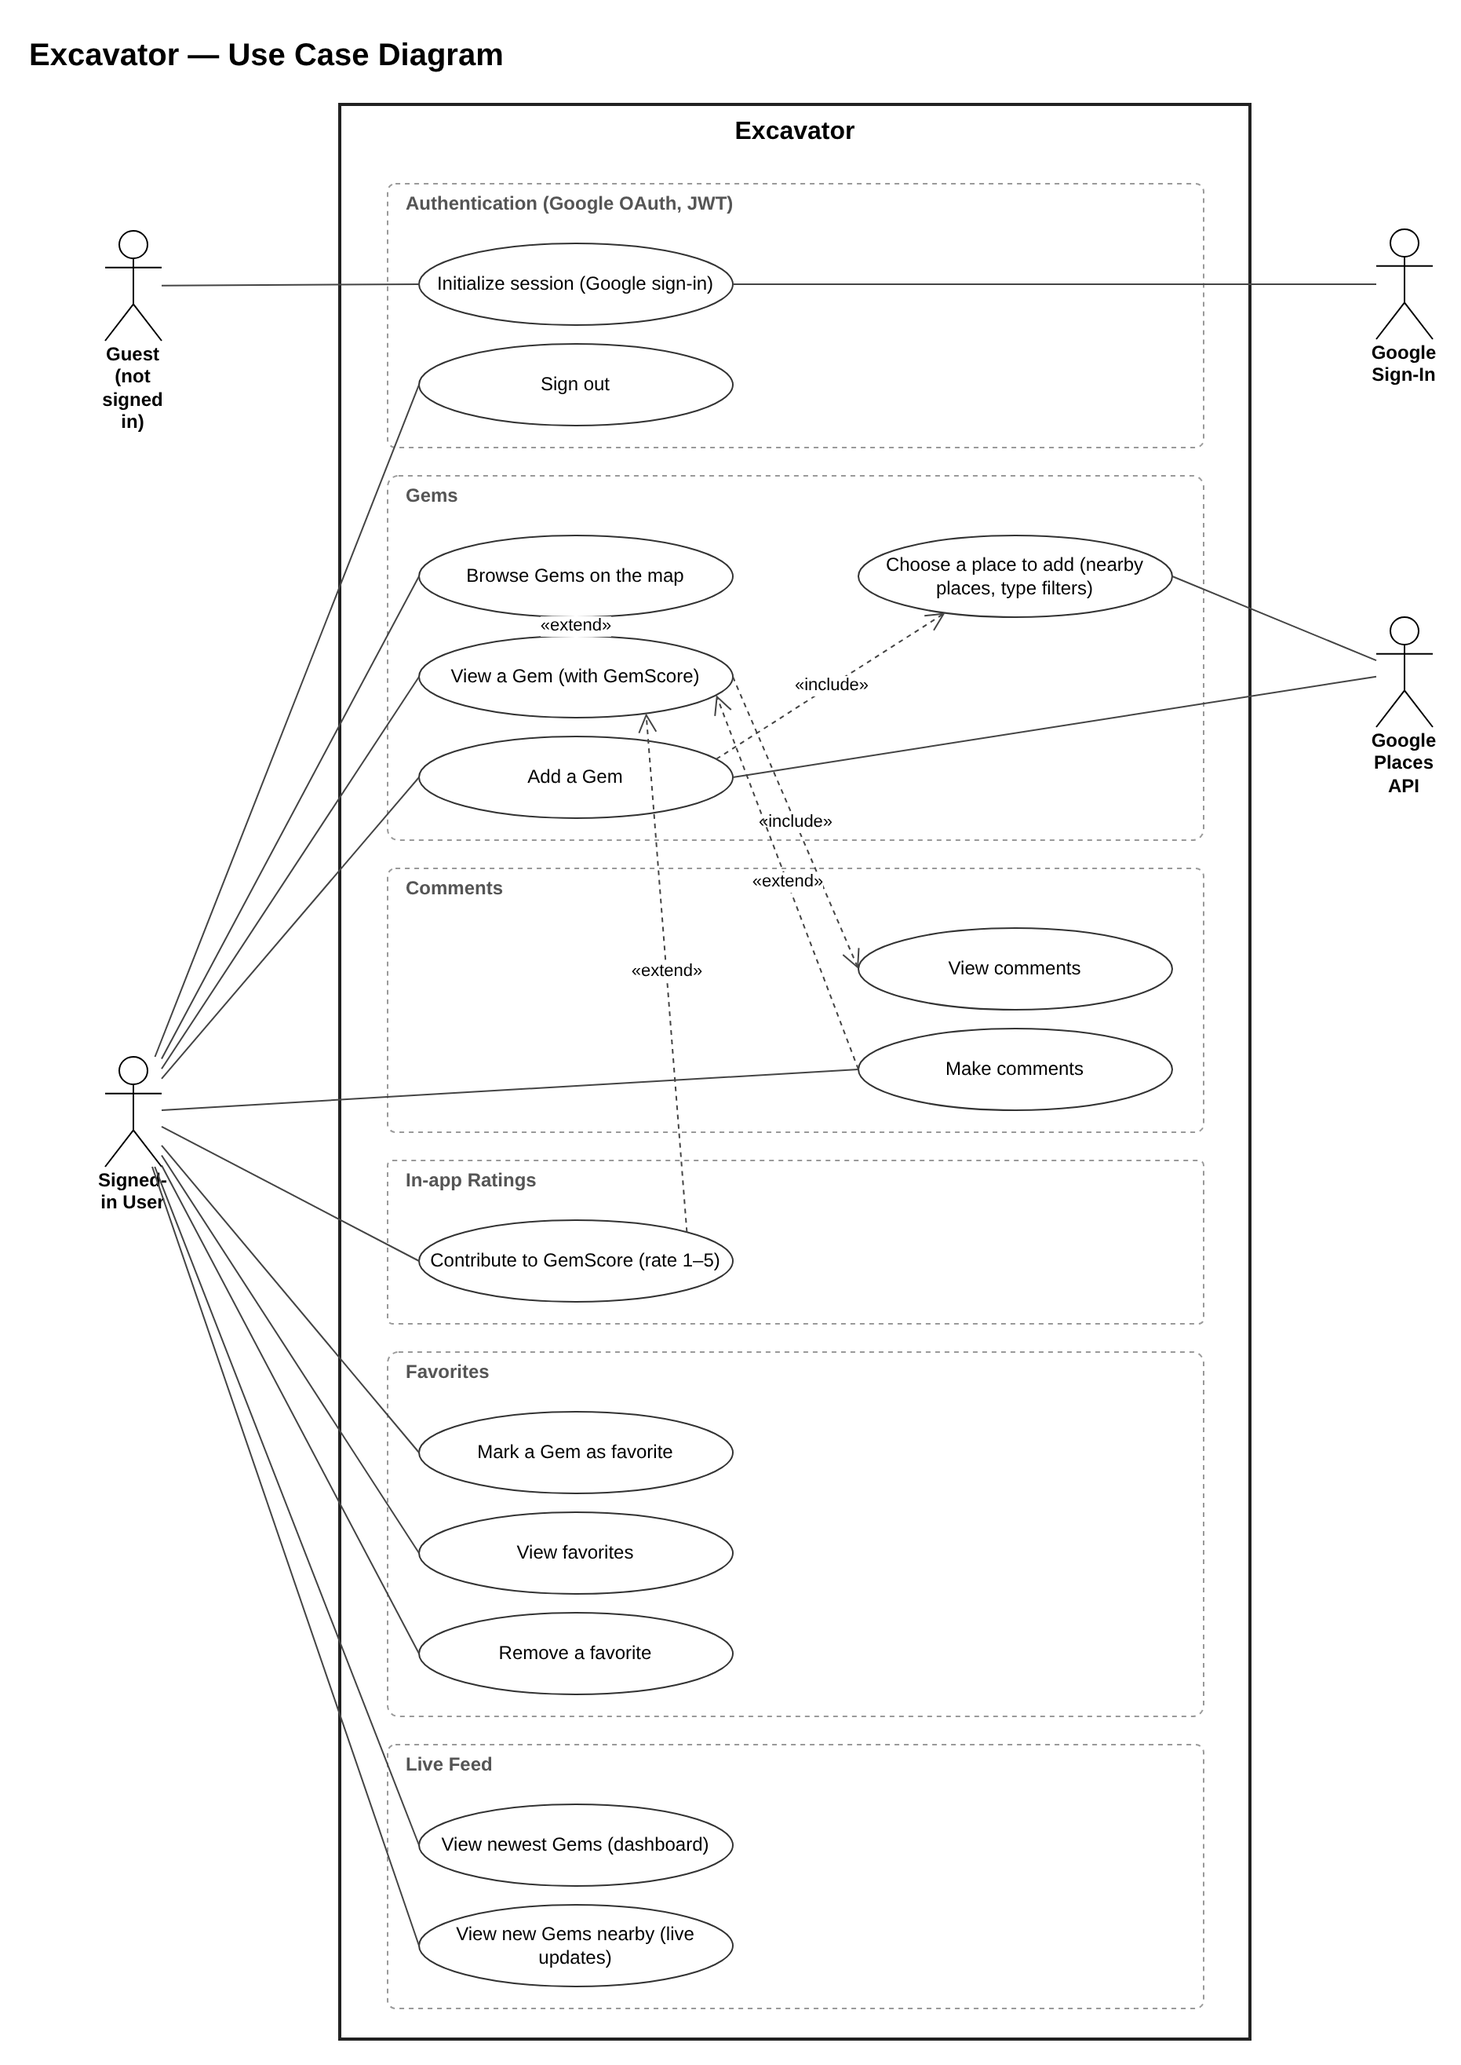
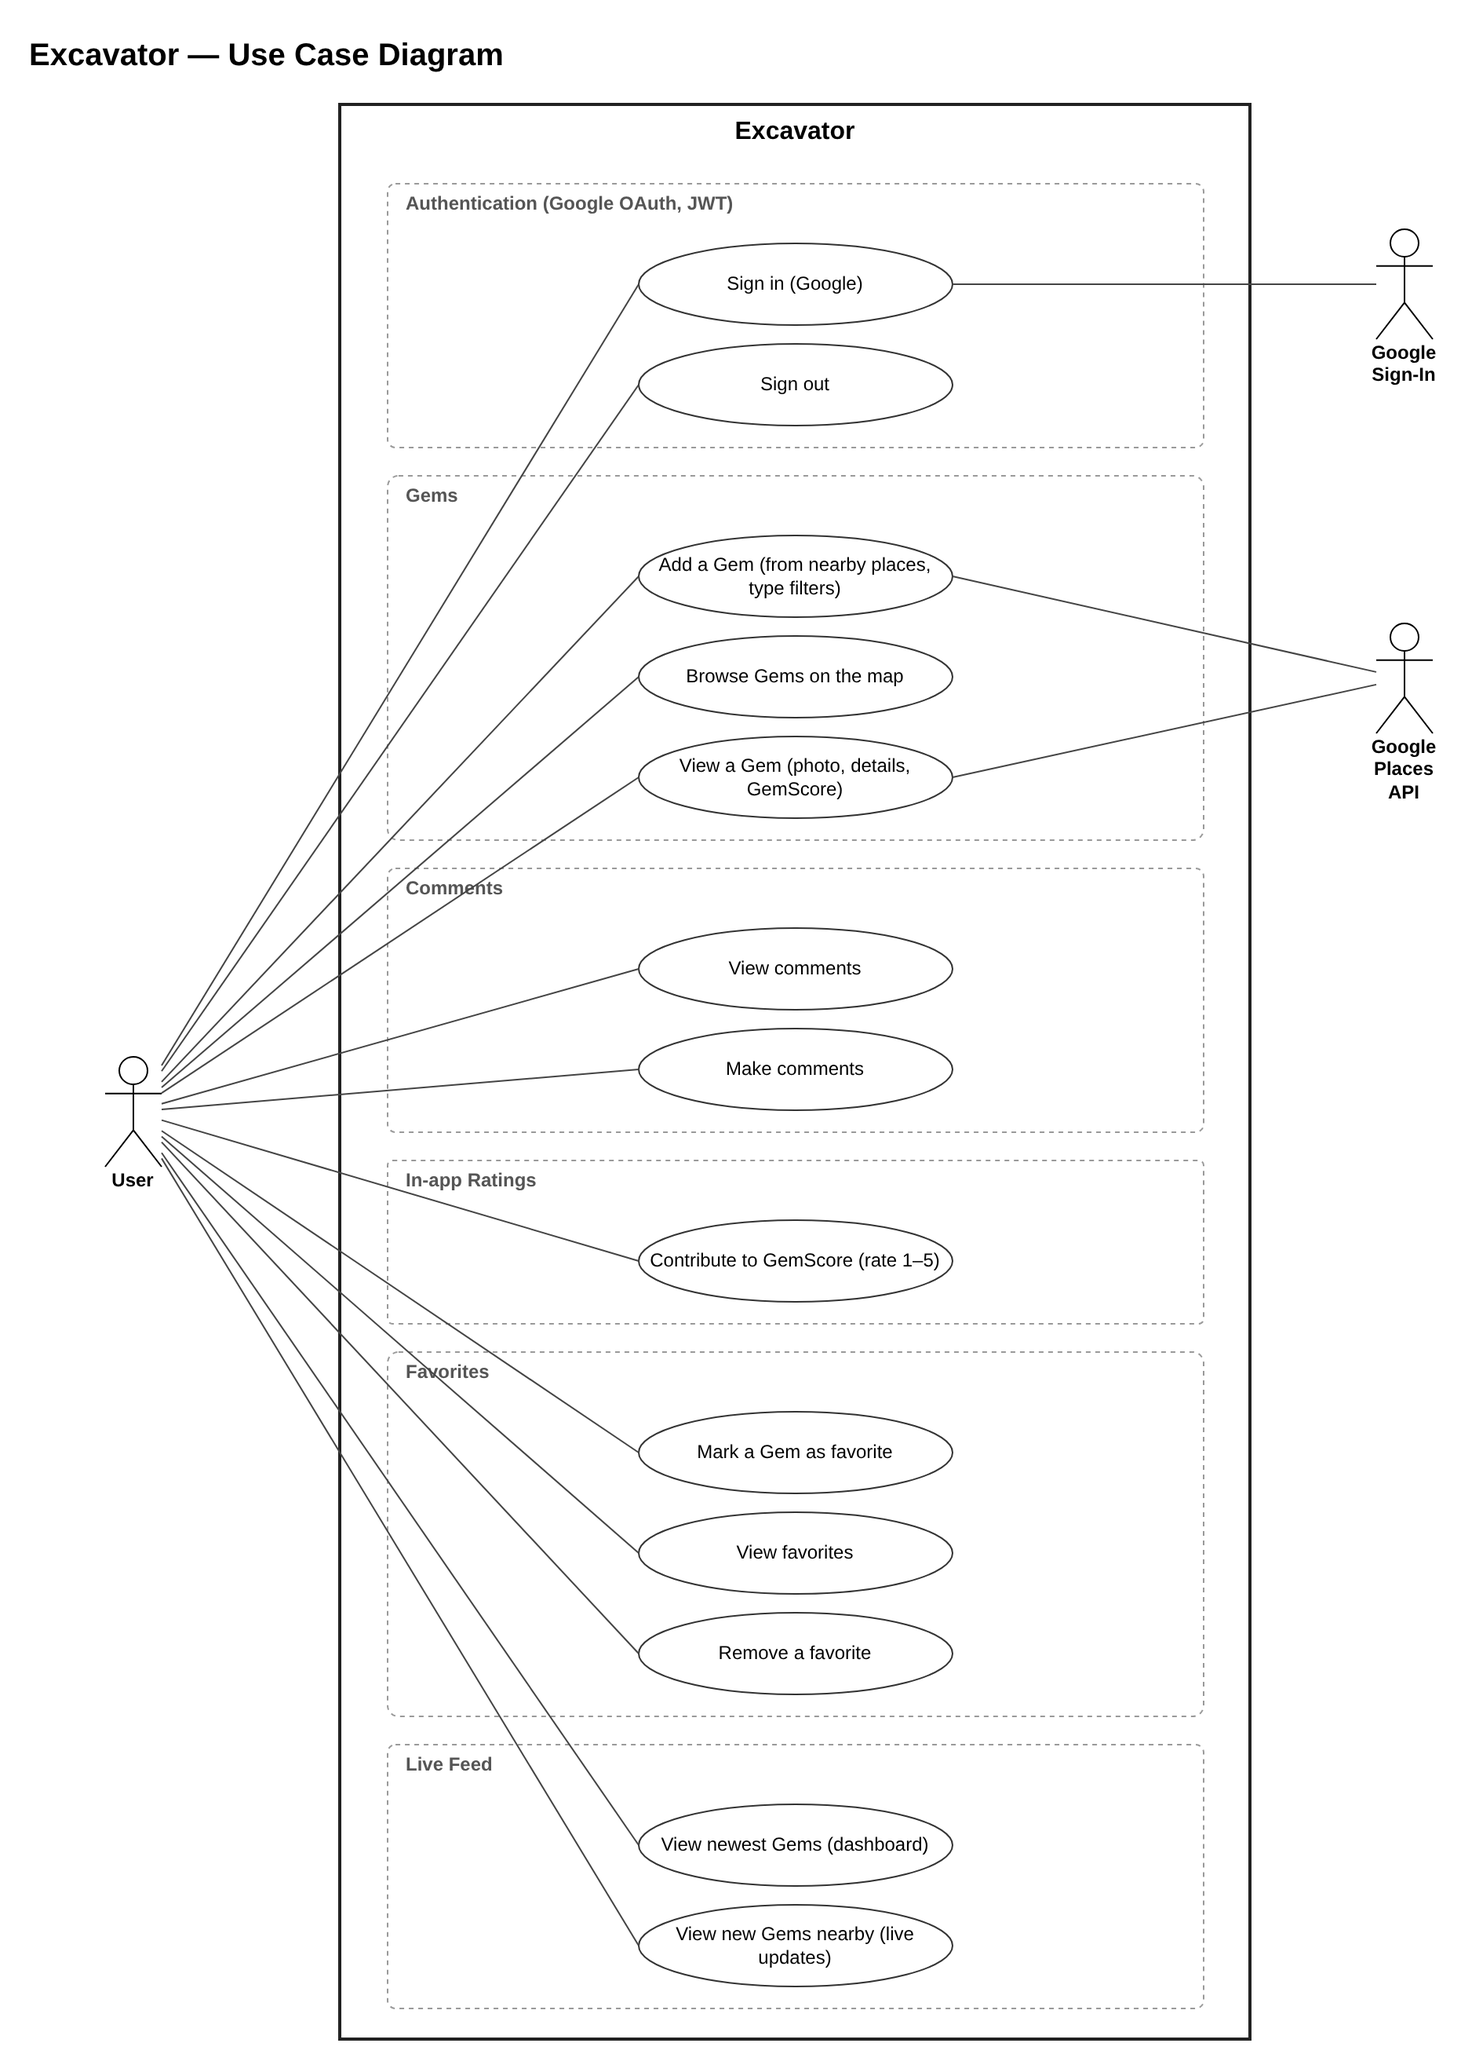
docs: rework the use cases after CP2 feedback

diff --git a/documentation/Requirements_and_Design.md b/documentation/Requirements_and_Design.md
@@ -18,6 +18,7 @@
 | 2026-11-04 | 4.5, 4.6 | Simplified the diagrams to a high level: one database, plain-language labels instead of function names. Every failure is now an `alt` branch at the step where it happens. Add a Gem is split into Choose a place to add and adding the picked place, so a failed search ends the flow. |
 | 2026-11-04 | 3.5, 4.6 | Wrote the five formal use cases (View a Gem, Add a Gem, Contribute to GemScore, View new Gems nearby, Mark a Gem as favorite) with every failure scenario. Replaced Initialize session with Mark a Gem as favorite, since the formal use cases must exclude authentication. Add a Gem now matches the app: the place is picked from the list of nearby places. |
 | 2026-11-17 | 4.1, 4.2 | Gems: new `GET /gem/:pk/photo` and a `photoUrl` on every gem, so the dashboard can show place photos; `GET /gem/newest` can be limited to gems near the user. Gems store the name of their Google photo. |
+| 2026-11-17 | 3.2, 3.3, 3.4, 3.5 | Following the CP2 feedback: one User actor, since the Guest actor could only sign in; no include or extend relationships in the use case diagram, so *View comments* is its own goal and choosing a place is part of *Add a Gem*; the formal use cases are reordered (*Add a Gem* first), *Make comments* replaces *Mark a Gem as favorite*, and losing the live-update connection in Use Case 4 now shows a message. |
 
 ---
 
@@ -41,72 +42,43 @@ Excavator is an app designed to let you find niche, high quality locations in yo
 ![Use case diagram](./images/use_case_diagram.png)
 
 ### **3.3. Actors Description**
-1. **Guest**: Someone who has opened the app but not signed in. The only thing they can do is sign in.
-2. **Signed-in User**: Someone signed in with their Google account. They use every feature of the app. There is no admin or other role.
-3. **Google Sign-In**: Google's authentication service. It signs the user in and gives the app an ID token, which the server verifies.
-4. **Google Places API**: Google's place database. It lists the places near a user who is adding a gem, and gives the chosen place's location, rating and review count.
+1. **User**: Someone using the app with their Google account. They sign in first, and can then use every feature of the app. There is no admin or other role.
+2. **Google Sign-In**: Google's authentication service. It signs the user in and gives the app an ID token, which the server verifies.
+3. **Google Places API**: Google's place database. It lists the places near a user who is adding a gem, gives the chosen place's location, rating and review count, and provides the photos shown for each gem.
 
 ### **3.4. Use Case Description**
 - Use cases for feature 1: Authentication
-1. **Initialize session**: A Guest signs in with Google, the first time or after their login has expired, and becomes a Signed-in User.
+1. **Sign in**: The User signs in with their Google account, the first time they open the app or after their login has expired.
 2. **Sign out**: The User signs out, and the app forgets their login.
 
 - Use cases for feature 2: Gems and Gem Score
-3. **Browse Gems on the map**: The User sees the gems in the area shown on the map, highest Gem Score first.
-4. **View a Gem**: The User opens a gem and sees its details, its Gem Score and its comments.
-5. **Add a Gem**: The User adds a place within 200 m of them as a gem; the gem is then scored and shared with nearby users.
-6. **Choose a place to add**: While adding a gem, the User picks from the places near them, optionally filtered by type (e.g. café, park).
+3. **Add a Gem**: The User picks a place within 200 m of them from a list of nearby places, optionally filtered by type (e.g. café, park), and adds it as a gem; the gem is then scored and shared with nearby users.
+4. **Browse Gems on the map**: The User sees the gems in the area shown on the map, highest Gem Score first.
+5. **View a Gem**: The User opens a gem and sees its photo, its details and its Gem Score.
 
 - Use cases for feature 3: Live feed
-7. **View newest Gems**: The User opens the dashboard and sees the most recently added gems.
-8. **View new Gems nearby**: With the app open, gems added near the User, and gems whose Gem Score changed, appear without refreshing.
+6. **View newest Gems**: The User opens the dashboard and sees the most recently added gems near them, with their photos.
+7. **View new Gems nearby**: With the app open, gems added near the User, and gems whose Gem Score changed, appear without refreshing.
 
 - Use cases for feature 4: In-app ratings
-9. **Contribute to GemScore**: The User rates a gem from 1 to 5 stars; the gem's Gem Score is recomputed right away and shown to nearby users.
+8. **Contribute to GemScore**: The User rates a gem from 1 to 5 stars; the gem's Gem Score is recomputed right away and shown to nearby users.
 
 - Use cases for feature 5: Comments
-10. **View comments**: The User sees a gem's comments, oldest first, while viewing it.
-11. **Make comments**: While viewing a gem, the User writes a comment and posts it; it shows their name.
+9. **View comments**: The User opens a gem's comments and reads what other users wrote, oldest first.
+10. **Make comments**: The User writes a comment on a gem and posts it; it shows their name.
 
 - Use cases for feature 6: Favorites
-12. **Mark a Gem as favorite**: The User taps "favorite" on a gem to add it to their favorites.
-13. **View favorites**: The User opens the favorites screen and sees their favorite gems, most recently added first.
-14. **Remove a favorite**: The User removes a gem from their favorites.
+11. **Mark a Gem as favorite**: The User taps "favorite" on a gem to add it to their favorites.
+12. **View favorites**: The User opens the favorites screen and sees their favorite gems, most recently added first.
+13. **Remove a favorite**: The User removes a gem from their favorites.
 
 ### **3.5. Formal Use Case Specifications (5 Most Major Use Cases)**
 
 <a name="uc1"></a>
-#### Use Case 1: View a Gem
-**Description**: A Signed-in User finds a gem on the map or the dashboard and opens it to see its details, Gem Score and comments.
+#### Use Case 1: Add a Gem
+**Description**: A User adds a place near them as a gem, picking it from a list of nearby places that can be filtered by type. The new gem is scored and shown to nearby users.
 
-**Primary actor(s)**: Signed-in User
-
-**Main success scenario**:
-1. The User opens the Discovery screen.
-2. The app shows a marker for each gem in the visible map area.
-3. The User taps a gem's marker (or a gem card on the Dashboard).
-4. A half-height panel appears with the gem's name, type and Gem Score.
-5. The User pulls up the panel to full screen.
-6. The app shows the gem's full details and its comments, oldest first.
-
-**Failure scenario(s)**:
-- 2a. The gems can't be loaded (no connection, or a server error).
-    - 2a1. The app shows "Couldn't load gems, try again" and a retry option.
-- 2b. The visible map area is too large to search (e.g. it crosses the date line).
-    - 2b1. The app asks the User to zoom in.
-- 4a. The gem no longer exists (it was deleted after the map loaded).
-    - 4a1. The app shows "This gem is no longer available".
-    - 4a2. The app removes the gem's marker from the map.
-- 4b. The gem can't be loaded (no connection, or a server error) and it is not cached.
-    - 4b1. The panel appears with a message about the error and a retry option.
-- 6a. The comments can't be loaded.
-    - 6a1. The app shows the gem's details with "Couldn't load comments" and a retry option.
-
-<a name="uc2"></a>
-#### Use Case 2: Add a Gem
-**Description**: A Signed-in User adds a place near them as a gem, picking it from a list of nearby places that can be filtered by type (this includes *Choose a place to add*). The new gem is scored and shown to nearby users.
-
-**Primary actor(s)**: Signed-in User
+**Primary actor(s)**: User
 
 **Main success scenario**:
 1. The User taps "Add gem" on the Discovery screen.
@@ -140,14 +112,41 @@ Excavator is an app designed to let you find niche, high quality locations in yo
 - 5e. The gem can't be added (no connection, a server error, or Google Places is unavailable).
     - 5e1. The app shows "Couldn't add the gem, try again". Nothing is added.
 
-<a name="uc3"></a>
-#### Use Case 3: Contribute to GemScore
-**Description**: A Signed-in User rates a gem from 1 to 5 stars; the gem's Gem Score is recomputed right away and shown to nearby users.
+<a name="uc2"></a>
+#### Use Case 2: View a Gem
+**Description**: A User finds a gem on the map or the dashboard and opens it to see its photo, details and Gem Score.
 
-**Primary actor(s)**: Signed-in User
+**Primary actor(s)**: User
 
 **Main success scenario**:
-1. The User opens a gem (Use Case 1).
+1. The User opens the Discovery screen.
+2. The app shows a marker for each gem in the visible map area.
+3. The User taps a gem's marker (or a gem card on the Dashboard).
+4. A half-height panel appears with the gem's name, type and Gem Score.
+5. The User pulls up the panel to full screen.
+6. The app shows the gem's photo, type, description, Gem Score and number of ratings.
+
+**Failure scenario(s)**:
+- 2a. The gems can't be loaded (no connection, or a server error).
+    - 2a1. The app shows "Couldn't load gems, try again" and a retry option.
+- 2b. The visible map area is too large to search (e.g. it crosses the date line).
+    - 2b1. The app asks the User to zoom in.
+- 4a. The gem no longer exists (it was deleted after the map loaded).
+    - 4a1. The app shows "This gem is no longer available".
+    - 4a2. The app removes the gem's marker from the map.
+- 4b. The gem can't be loaded (no connection, or a server error) and it is not cached.
+    - 4b1. The panel appears with a message about the error and a retry option.
+- 6a. The gem has no photo, or the photo can't be loaded.
+    - 6a1. The app shows a placeholder image instead; the rest of the details still show.
+
+<a name="uc3"></a>
+#### Use Case 3: Contribute to GemScore
+**Description**: A User rates a gem from 1 to 5 stars; the gem's Gem Score is recomputed right away and shown to nearby users.
+
+**Primary actor(s)**: User
+
+**Main success scenario**:
+1. The User opens a gem (Use Case 2).
 2. The User selects 1 to 5 stars.
 3. The app shows the gem's new Gem Score. If the User had rated the gem before, the new rating replaces the old one.
 4. Other users with that area open see the gem's new Gem Score without refreshing.
@@ -163,9 +162,9 @@ Excavator is an app designed to let you find niche, high quality locations in yo
 
 <a name="uc4"></a>
 #### Use Case 4: View new Gems nearby
-**Description**: A Signed-in User with the Dashboard open sees the newest gems, and gems that are added or re-scored near them appear without refreshing.
+**Description**: A User with the Dashboard open sees the newest gems, and gems that are added or re-scored near them appear without refreshing.
 
-**Primary actor(s)**: Signed-in User
+**Primary actor(s)**: User
 
 **Main success scenario**:
 1. The User opens the Dashboard.
@@ -181,30 +180,37 @@ Excavator is an app designed to let you find niche, high quality locations in yo
     - 3a1. The app explains that the location is needed for live updates.
     - 3a2. The list still shows the newest gems, without live updates.
 - 4a. The live-update connection is lost.
-    - 4a1. New gems stop appearing until the connection is restored or the Dashboard is reopened.
+    - 4a1. The app shows "Live updates paused, reconnecting…" above the list.
+    - 4a2. The list keeps the gems it already shows, and the app tries to reconnect.
+    - 4a3. Once reconnected, the message disappears and new gems appear again.
 
 <a name="uc5"></a>
-#### Use Case 5: Mark a Gem as favorite
-**Description**: A Signed-in User adds a gem to their favorites, which they can see on the Favorites screen from any phone they sign in on.
+#### Use Case 5: Make comments
+**Description**: A User writes a comment on a gem. The comment appears, with their name, in the gem's comments for every user who opens the gem.
 
-**Primary actor(s)**: Signed-in User
+**Primary actor(s)**: User
 
 **Main success scenario**:
-1. The User opens a gem (Use Case 1).
-2. The User taps the favorite button.
-3. The favorite button turns on, and the gem appears at the top of the Favorites screen.
+1. The User opens a gem (Use Case 2) and opens its comments.
+2. The app shows the gem's comments, oldest first.
+3. The User types a comment and taps "Post".
+4. The app adds the comment at the bottom of the list, with the User's name.
 
 **Failure scenario(s)**:
-- 2a. The gem is already one of the User's favorites.
-    - 2a1. The favorite button stays on; nothing changes.
-- 2b. The User already has 500 favorites.
-    - 2b1. The app shows "You have too many favorites, remove one first".
-- 2c. The gem no longer exists.
-    - 2c1. The app shows "This gem is no longer available".
-- 2d. The User's login has expired.
-    - 2d1. The app returns to the sign-in screen; after signing in, the User can try again.
-- 2e. The favorite can't be saved (no connection, or a server error).
-    - 2e1. The app shows "Couldn't add to favorites, try again", and the favorite button stays off.
+- 2a. The comments can't be loaded (no connection, or a server error).
+    - 2a1. The app shows "Couldn't load comments" and a retry option.
+- 2b. The gem has no comments yet.
+    - 2b1. The app shows "No comments yet, be the first".
+- 3a. The comment is empty or only spaces.
+    - 3a1. The "Post" button stays disabled.
+- 3b. The comment is longer than 1000 characters.
+    - 3b1. The app shows "Comments can be at most 1000 characters" and keeps the text so the User can shorten it.
+- 4a. The gem no longer exists.
+    - 4a1. The app shows "This gem is no longer available". The comment is not posted.
+- 4b. The User's login has expired.
+    - 4b1. The app returns to the sign-in screen; after signing in, the User can post again.
+- 4c. The comment can't be saved (no connection, or a server error).
+    - 4c1. The app shows "Couldn't post your comment, try again" and keeps the text in the box.
 
 ### **3.6. Screen Mock-ups**
 ![Frontend Screens Diagram](images/frontend_screens_diagram.jpg)
@@ -344,20 +350,20 @@ The lifelines are the actors of 3.3 and the components of the dependencies diagr
 - A **solid arrow with a filled head** is a synchronous call. Its result comes back on the **dashed arrow** after it, labelled with what is returned (HTTP status and body for REST calls).
 - A **solid arrow with an open head** is an asynchronous message with no reply: WebSocket messages between the Frontend and the Live Feed, and updates the Frontend shows without the user asking.
 - Every failure the use case can run into is an `alt` branch at the step where it happens, with what the user then sees. A failure that applies to every request, the server not being reachable, is written once per diagram as a note. An invalid or expired login token is an `alt` branch in the use cases that need sign-in (it sends the user back to sign in). Requests the app never sends (e.g. a malformed place name) are rejected with 400; see 4.1.
-- Values flow from earlier messages: e.g. the place picked in *Choose a place to add* is the place *Add a Gem* adds.
+- Values flow from earlier messages: e.g. the place picked from the nearby places is the place that is then added.
 
 Sources: `documentation/diagrams/`.
 
-1. [**View a Gem**](#uc1)\
+1. [**View a Gem**](#uc2)\
 ![View a Gem](images/uc1_view_a_gem.png)
-2. [**Add a Gem**](#uc2), in two parts: first the included use case *Choose a place to add*, then adding the picked place.\
-![Choose a place to add](images/uc2a_choose_a_place.png)
+2. [**Add a Gem**](#uc1), in two parts: first choosing the place from the nearby places, then adding it.\
+![Add a Gem: choosing the place](images/uc2a_choose_a_place.png)
 ![Add a Gem](images/uc2b_add_a_gem.png)
 3. [**Contribute to GemScore**](#uc3)\
 ![Contribute to GemScore](images/uc3_contribute_to_gemscore.png)
 4. [**View new Gems nearby**](#uc4)\
 ![View new Gems nearby](images/uc4_view_new_gems_nearby.png)
-5. [**Mark a Gem as favorite**](#uc5)\
+5. **Mark a Gem as favorite**\
 ![Mark a Gem as favorite](images/uc5_mark_a_gem_as_favorite.png)
 
 ### **4.7. Design of Non-Functional Requirements**
